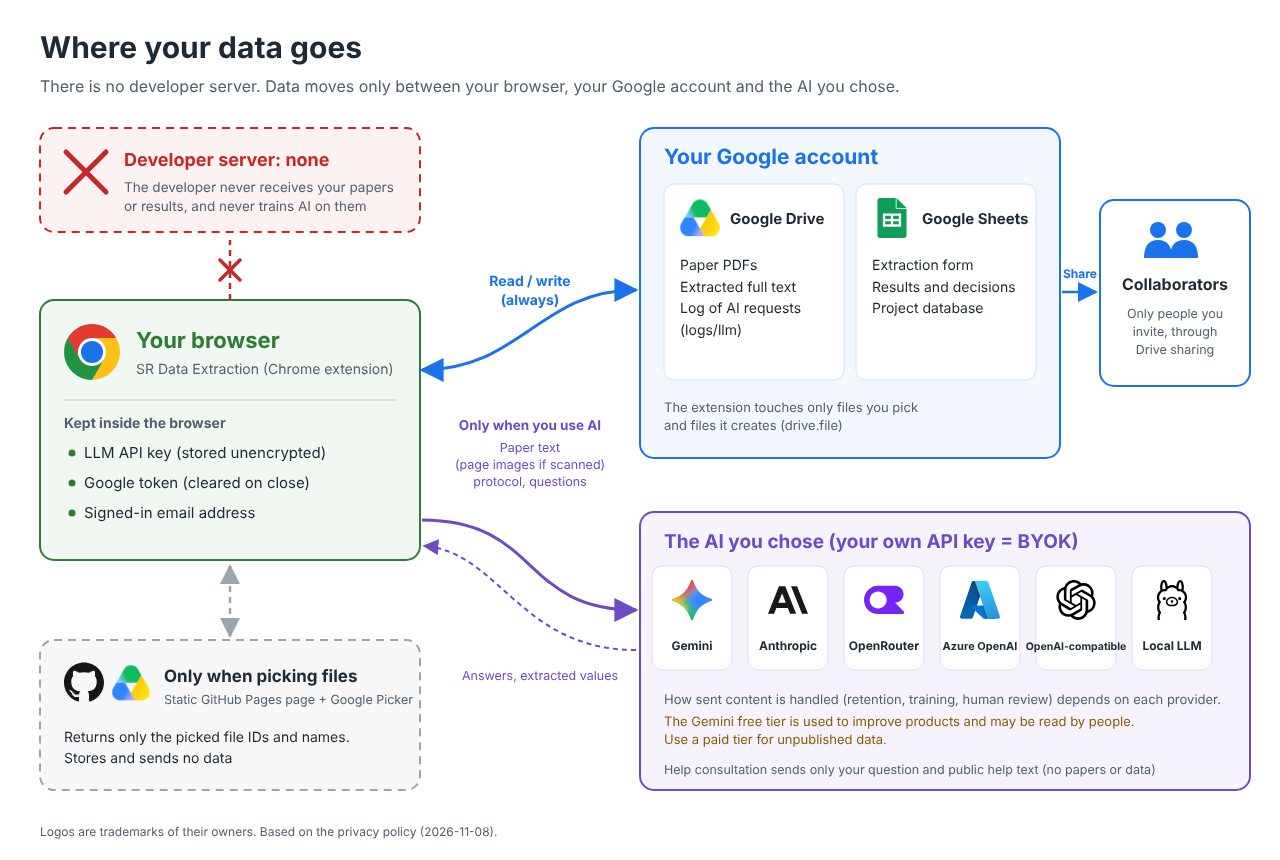
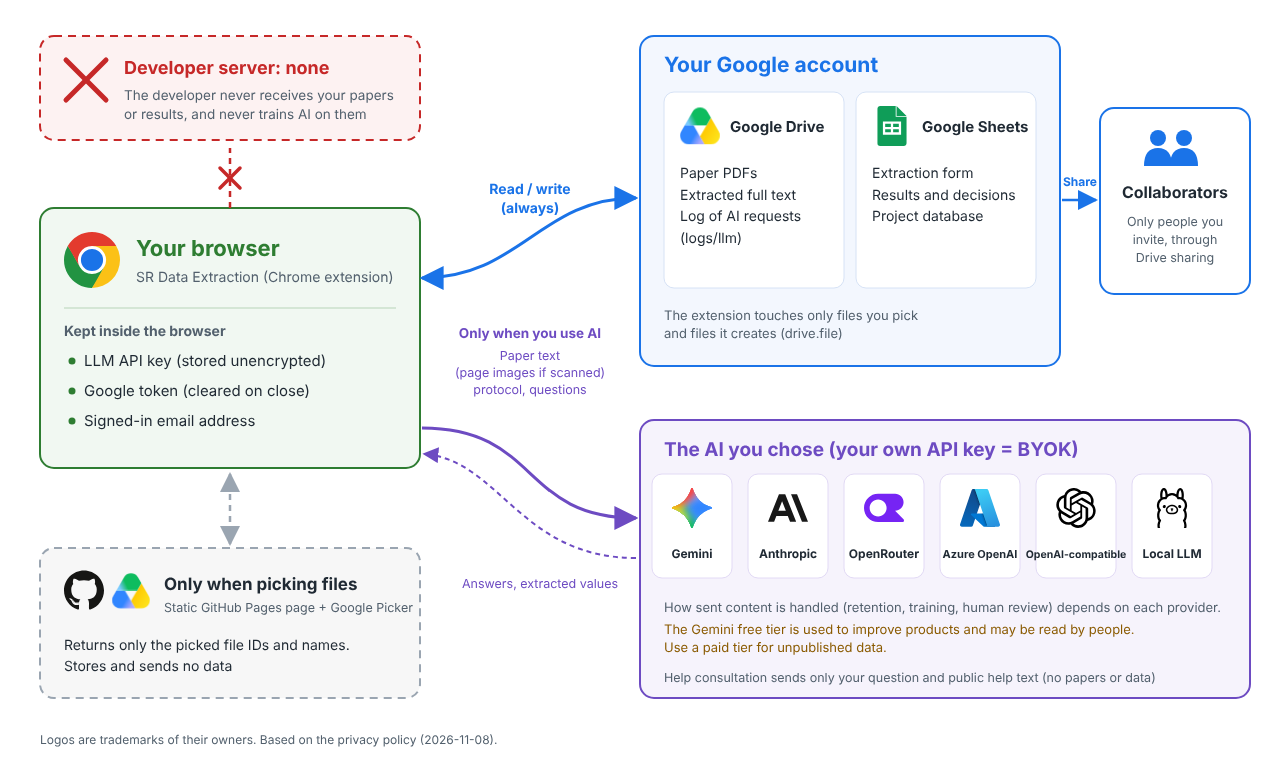
データの流れの図から上部のタイトルと副題を外す
図の上の 2 行（「データはどこへ行くか」と、その説明文）を削り、図全体を上へ詰めた
（1280×860 → 1280×760）。ヘルプとプライバシーポリシーの img の height も合わせた。

Claude-Session: https://claude.ai/code/session_01N75HniFStiQvPucNxrgXhp

diff --git a/hosted/help.html b/hosted/help.html
@@ -582,7 +582,7 @@
                   alt="データの流れの図。あなたのブラウザ（Chrome 拡張）を中心に、あなたの Google アカウント（Google Drive に論文 PDF・本文テキスト・AI とのやりとりの記録、Google Sheets に抽出表の設計・抽出結果・判定履歴）とはいつも読み書きし、共同研究者にはあなたが Drive で共有した相手だけが見られる。あなたが選んだ AI（Gemini・Anthropic・OpenRouter・Azure OpenAI・OpenAI 互換・ローカル LLM）へは AI 機能を使うときだけ論文本文・プロトコル・質問を送る。開発者のサーバーは無く、ファイルを選ぶときだけ GitHub Pages の静的ページと Google Picker を使う"
                   data-en-alt="Data flow diagram (Japanese version)"
                   width="1280"
-                  height="860"
+                  height="760"
                   loading="lazy"
                 />
               </a>
@@ -594,7 +594,7 @@
                   alt="データの流れの図（英語版）"
                   data-en-alt="Data flow diagram. Your browser (the Chrome extension) always reads and writes your Google account (Google Drive holds paper PDFs, extracted text and the AI request log; Google Sheets holds the extraction form, results and decisions), and only collaborators you invite through Drive sharing can see it. Paper text, protocol and questions go to the AI you chose (Gemini, Anthropic, OpenRouter, Azure OpenAI, OpenAI-compatible or local LLM) only when you use AI features. There is no developer server; a static GitHub Pages page and Google Picker are used only when picking files"
                   width="1280"
-                  height="860"
+                  height="760"
                   loading="lazy"
                 />
               </a>

diff --git a/hosted/privacy-policy.html b/hosted/privacy-policy.html
@@ -151,7 +151,7 @@
                   alt="データの流れの図。あなたのブラウザ（Chrome 拡張）を中心に、あなたの Google アカウント（Google Drive に論文 PDF・本文テキスト・AI とのやりとりの記録、Google Sheets に抽出表の設計・抽出結果・判定履歴）とはいつも読み書きし、共同研究者にはあなたが Drive で共有した相手だけが見られる。あなたが選んだ AI（Gemini・Anthropic・OpenRouter・Azure OpenAI・OpenAI 互換・ローカル LLM）へは AI 機能を使うときだけ論文本文・プロトコル・質問を送る。開発者のサーバーは無く、ファイルを選ぶときだけ GitHub Pages の静的ページと Google Picker を使う"
                   data-en-alt="Data flow diagram (Japanese version)"
                   width="1280"
-                  height="860"
+                  height="760"
                   loading="lazy"
                 />
               </a>
@@ -163,7 +163,7 @@
                   alt="データの流れの図（英語版）"
                   data-en-alt="Data flow diagram. Your browser (the Chrome extension) always reads and writes your Google account (Google Drive holds paper PDFs, extracted text and the AI request log; Google Sheets holds the extraction form, results and decisions), and only collaborators you invite through Drive sharing can see it. Paper text, protocol and questions go to the AI you chose (Gemini, Anthropic, OpenRouter, Azure OpenAI, OpenAI-compatible or local LLM) only when you use AI features. There is no developer server; a static GitHub Pages page and Google Picker are used only when picking files"
                   width="1280"
-                  height="860"
+                  height="760"
                   loading="lazy"
                 />
               </a>
